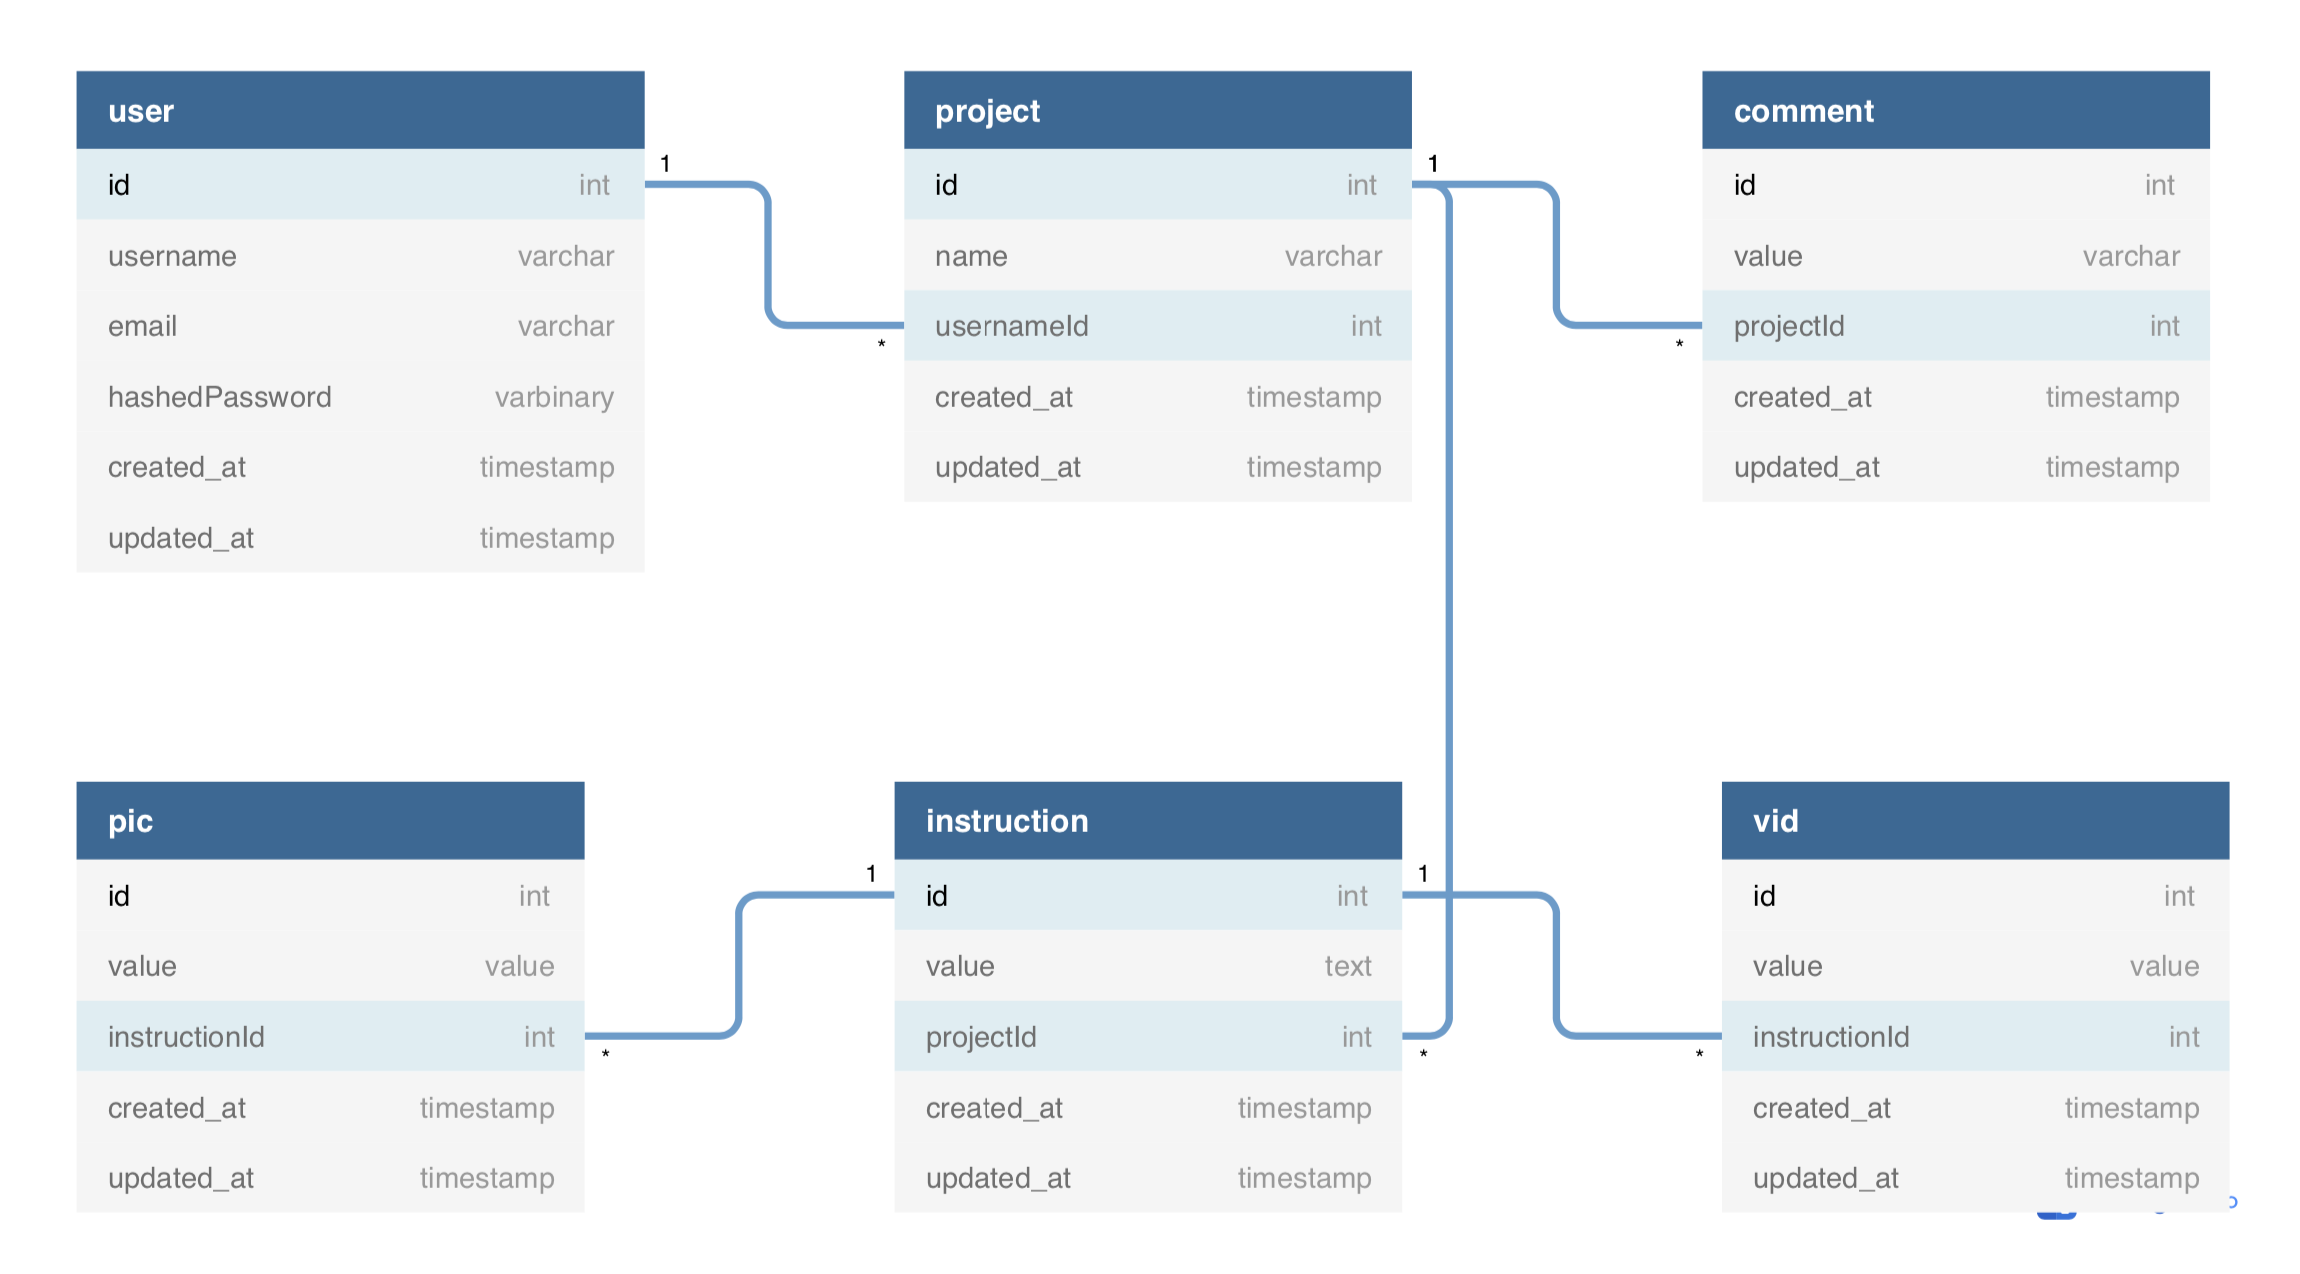
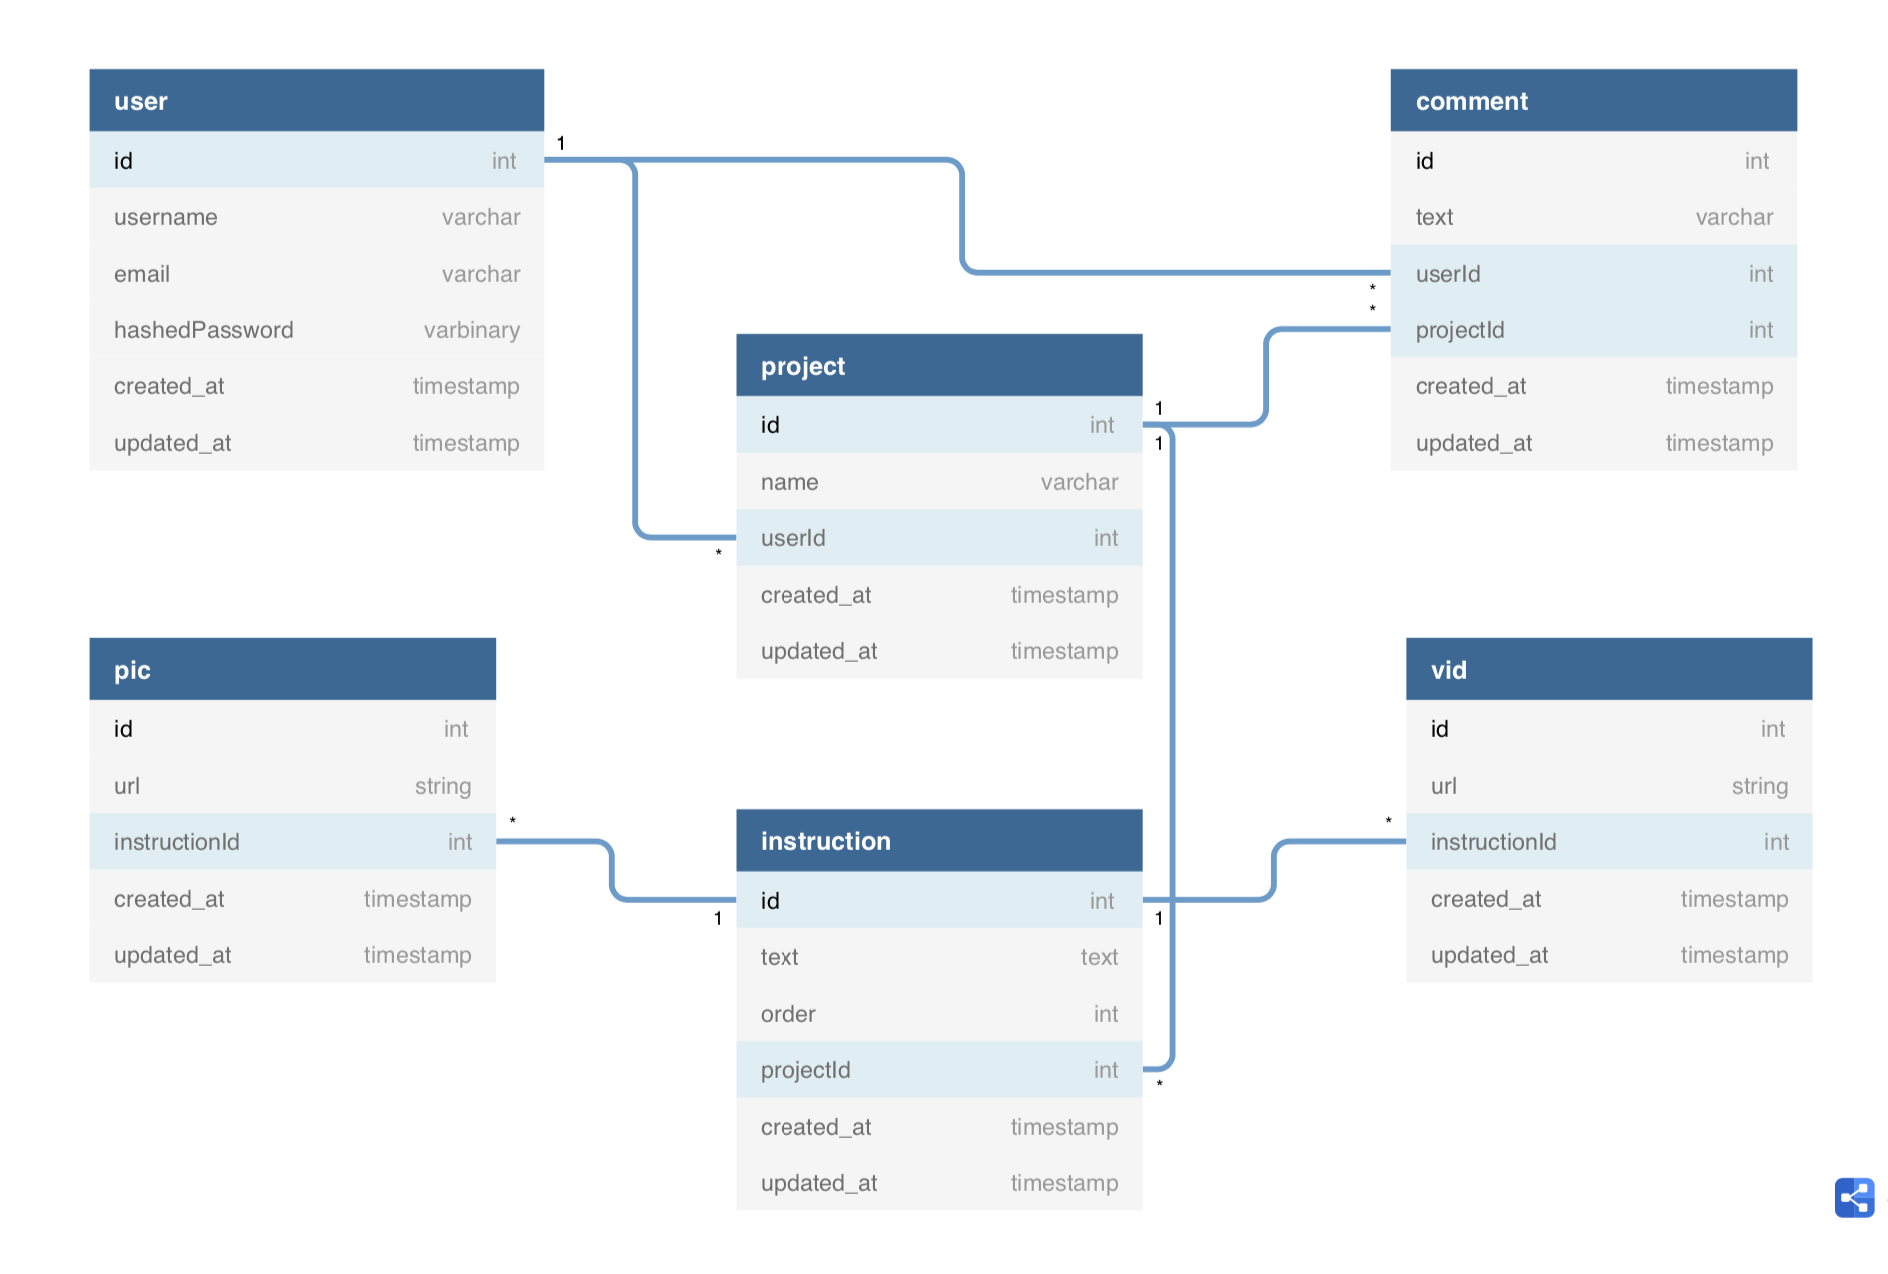
- Update db-schema.png - Create migrations and models   - No validations added

diff --git a/backend/db/migrations/20201228170529-create-project.js b/backend/db/migrations/20201228170529-create-project.js
@@ -1,0 +1,35 @@
+'use strict';
+module.exports = {
+  up: (queryInterface, Sequelize) => {
+    return queryInterface.createTable('Projects', {
+      id: {
+        allowNull: false,
+        autoIncrement: true,
+        primaryKey: true,
+        type: Sequelize.INTEGER
+      },
+      name: {
+        allowNull: false,
+        type: Sequelize.STRING(50)
+      },
+      userId: {
+        allowNull: false,
+        type: Sequelize.INTEGER,
+        references: { model: 'Users' }
+      },
+      createdAt: {
+        allowNull: false,
+        type: Sequelize.DATE,
+        defaultValue: Sequelize.fn('now'),
+      },
+      updatedAt: {
+        allowNull: false,
+        type: Sequelize.DATE,
+        defaultValue: Sequelize.fn('now'),
+      }
+    });
+  },
+  down: (queryInterface, Sequelize) => {
+    return queryInterface.dropTable('Projects');
+  }
+};

diff --git a/backend/db/migrations/20201228171413-create-instruction.js b/backend/db/migrations/20201228171413-create-instruction.js
@@ -1,0 +1,33 @@
+'use strict';
+module.exports = {
+  up: (queryInterface, Sequelize) => {
+    return queryInterface.createTable('Instructions', {
+      id: {
+        allowNull: false,
+        autoIncrement: true,
+        primaryKey: true,
+        type: Sequelize.INTEGER
+      },
+      order: {
+        type: Sequelize.INTEGER
+      },
+      text: {
+        type: Sequelize.TEXT
+      },
+      projectId: {
+        type: Sequelize.INTEGER
+      },
+      createdAt: {
+        allowNull: false,
+        type: Sequelize.DATE
+      },
+      updatedAt: {
+        allowNull: false,
+        type: Sequelize.DATE
+      }
+    });
+  },
+  down: (queryInterface, Sequelize) => {
+    return queryInterface.dropTable('Instructions');
+  }
+};

diff --git a/backend/db/migrations/20201228171226-create-comment.js b/backend/db/migrations/20201228171226-create-comment.js
@@ -1,0 +1,33 @@
+'use strict';
+module.exports = {
+  up: (queryInterface, Sequelize) => {
+    return queryInterface.createTable('Comments', {
+      id: {
+        allowNull: false,
+        autoIncrement: true,
+        primaryKey: true,
+        type: Sequelize.INTEGER
+      },
+      value: {
+        type: Sequelize.STRING
+      },
+      userId: {
+        type: Sequelize.INTEGER
+      },
+      projectId: {
+        type: Sequelize.INTEGER
+      },
+      createdAt: {
+        allowNull: false,
+        type: Sequelize.DATE
+      },
+      updatedAt: {
+        allowNull: false,
+        type: Sequelize.DATE
+      }
+    });
+  },
+  down: (queryInterface, Sequelize) => {
+    return queryInterface.dropTable('Comments');
+  }
+};

diff --git a/backend/db/migrations/20201228172402-create-image.js b/backend/db/migrations/20201228172402-create-image.js
@@ -1,0 +1,30 @@
+'use strict';
+module.exports = {
+  up: (queryInterface, Sequelize) => {
+    return queryInterface.createTable('Images', {
+      id: {
+        allowNull: false,
+        autoIncrement: true,
+        primaryKey: true,
+        type: Sequelize.INTEGER
+      },
+      url: {
+        type: Sequelize.STRING
+      },
+      instructionId: {
+        type: Sequelize.INTEGER
+      },
+      createdAt: {
+        allowNull: false,
+        type: Sequelize.DATE
+      },
+      updatedAt: {
+        allowNull: false,
+        type: Sequelize.DATE
+      }
+    });
+  },
+  down: (queryInterface, Sequelize) => {
+    return queryInterface.dropTable('Images');
+  }
+};

diff --git a/backend/db/migrations/20201228172516-create-video.js b/backend/db/migrations/20201228172516-create-video.js
@@ -1,0 +1,30 @@
+'use strict';
+module.exports = {
+  up: (queryInterface, Sequelize) => {
+    return queryInterface.createTable('Videos', {
+      id: {
+        allowNull: false,
+        autoIncrement: true,
+        primaryKey: true,
+        type: Sequelize.INTEGER
+      },
+      url: {
+        type: Sequelize.STRING
+      },
+      instructionId: {
+        type: Sequelize.INTEGER
+      },
+      createdAt: {
+        allowNull: false,
+        type: Sequelize.DATE
+      },
+      updatedAt: {
+        allowNull: false,
+        type: Sequelize.DATE
+      }
+    });
+  },
+  down: (queryInterface, Sequelize) => {
+    return queryInterface.dropTable('Videos');
+  }
+};

diff --git a/backend/db/models/project.js b/backend/db/models/project.js
@@ -1,0 +1,21 @@
+'use strict';
+module.exports = (sequelize, DataTypes) => {
+  const Project = sequelize.define('Project', {
+    name: {
+      type: DataTypes.STRING,
+      allowNull: false,
+      validate : {
+        len: [3, 50]
+      }
+    },
+    userId: {
+      type: DataTypes.INTEGER,
+      allowNull: false,
+    }
+  }, {});
+  Project.associate = function(models) {
+    // associations can be defined here
+    Project.belongsTo(models.User, { foreignKey: 'userId' });
+  };
+  return Project;
+};

diff --git a/backend/db/models/instruction.js b/backend/db/models/instruction.js
@@ -1,0 +1,12 @@
+'use strict';
+module.exports = (sequelize, DataTypes) => {
+  const Instruction = sequelize.define('Instruction', {
+    text: DataTypes.TEXT,
+    order: DataTypes.INTEGER,
+    projectId: DataTypes.INTEGER
+  }, {});
+  Instruction.associate = function(models) {
+    // associations can be defined here
+  };
+  return Instruction;
+};

diff --git a/backend/db/models/comment.js b/backend/db/models/comment.js
@@ -1,0 +1,12 @@
+'use strict';
+module.exports = (sequelize, DataTypes) => {
+  const Comment = sequelize.define('Comment', {
+    text: DataTypes.STRING,
+    userId: DataTypes.INTEGER,
+    projectId: DataTypes.INTEGER
+  }, {});
+  Comment.associate = function(models) {
+    // associations can be defined here
+  };
+  return Comment;
+};

diff --git a/frontend/public/index.html b/frontend/public/index.html
@@ -2,7 +2,7 @@
 <html lang="en">
   <head>
     <meta charset="utf-8" />
-    <title>Authenticate Me</title>
+    <title>vary+able</title>
     <meta name="viewport" content="width=device-width, initial-scale=1" />
     <link rel="icon" href="%PUBLIC_URL%/favicon.ico" />
     <link rel="manifest" href="%PUBLIC_URL%/manifest.json" />

diff --git a/backend/db/models/user.js b/backend/db/models/user.js
@@ -51,6 +51,7 @@ module.exports = (sequelize, DataTypes) => {
   );
   User.associate = function (models) {
     // associations can be defined here
+    User.hasMany(models.Project, { foreignKey: 'userId' });
   };
   User.prototype.toSafeObject = function () {
     // remember, this cannot be an arrow function

diff --git a/backend/db/models/image.js b/backend/db/models/image.js
@@ -1,0 +1,11 @@
+'use strict';
+module.exports = (sequelize, DataTypes) => {
+  const Image = sequelize.define('Image', {
+    url: DataTypes.STRING,
+    instructionId: DataTypes.INTEGER
+  }, {});
+  Image.associate = function(models) {
+    // associations can be defined here
+  };
+  return Image;
+};

diff --git a/backend/db/models/video.js b/backend/db/models/video.js
@@ -1,0 +1,11 @@
+'use strict';
+module.exports = (sequelize, DataTypes) => {
+  const Video = sequelize.define('Video', {
+    url: DataTypes.STRING,
+    instructionId: DataTypes.INTEGER
+  }, {});
+  Video.associate = function(models) {
+    // associations can be defined here
+  };
+  return Video;
+};
